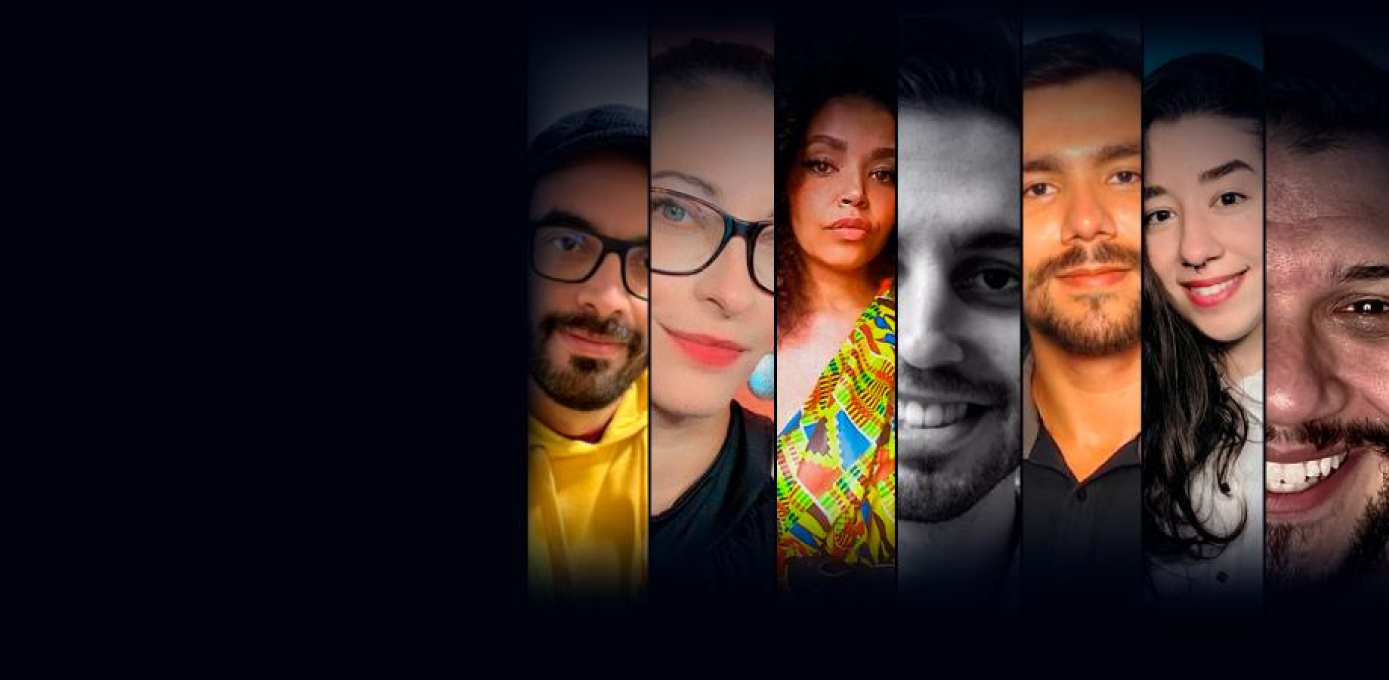
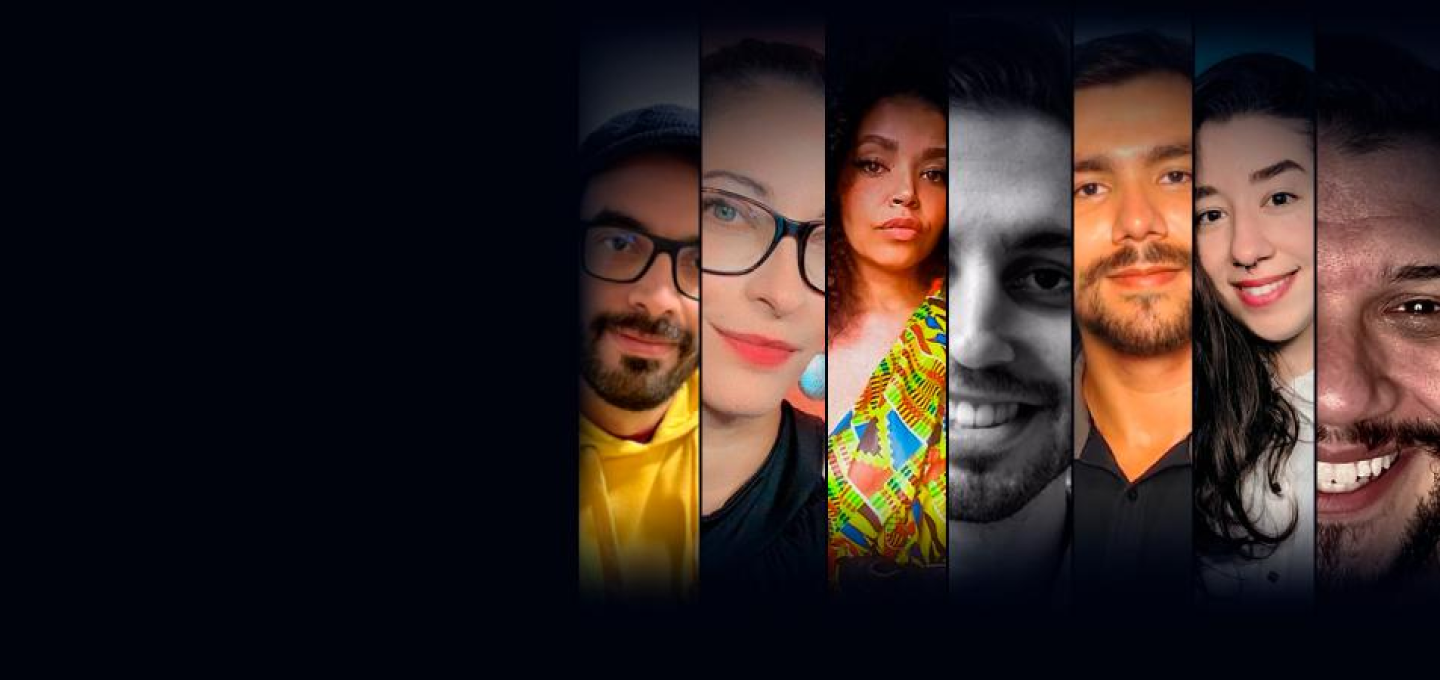
Add files via upload

Changed region(s): [[0.3715, 0.0618, 0.9906, 0.8647], [0.9597, 0.4324, 0.9906, 0.4632], [0.5572, 0.0618, 0.5882, 0.0926]]

diff --git a/index.html b/index.html
@@ -1,16 +1,19 @@
 <!DOCTYPE html>
 <html lang="pt-br">
+
 <head>
     <meta charset="UTF-8">
     <meta name="viewport" content="width=device-width, initial-scale=1.0">
-    <link rel="stylesheeth" href="style.css">
+    <link rel="stylesheet" href="style.css">
     <title>Alura Plus</title>
 </head>
-<body> 
-    <section class="principal">
-        <section class="container principal"></section>
-    <h1>Com o Combo+, você pode aproveitar a Alura+ e o Alura Língua por um preço único.</h1>
-    <img src="./img/Combo.png" alt="O Combo Alura Plus">
+
+<body>
+    <section class="container principal">
+        <h1>Com o Combo+, você pode aproveitar a Alura+ e o Alura Língua por um preço único.</h1>
+        <img src="./img/Combo.png" alt="O combo Alura Plus">
+        <a href="www.alura.com.br" class="container-botao">Assine por 12x de R$120,00*</a>
     </section>
 </body>
+
 </html>

diff --git a/style.css b/style.css
@@ -1,16 +1,16 @@
 :root{
-    --branco-principal: #FFFFFF;
-    --cinza-secundario: #c0c0c0; 
-    --botao-azul: #167bf7; 
-    --cor-de-fundo: #00030c; 
+    --branco-principal:#FFFFFF;
+    --cinza-secundario:#C0C0C0;
+    --botao-roxo:#8b6ab3;
+    --cor-de-fundo:#00030C;
 }
 *{
     margin: 0;
     padding: 0;
 }
 body{
-    background-color:var(--cor-de-fundo)
-    color(--cinza-secundario)
+    background-color:var(--cor-de-fundo);
+    color: var(--branco-principal);
 }
 .principal{
     background-image: url("img/Background.png");
@@ -18,5 +18,13 @@ body{
     background-size: contain;
 }
 .container{
-   height: 100% vh; 
+    height: 100vh;
+    display: grid;
+}
+.container-botao{
+    background-color: var(--botao-roxo);
+    border-radius: 5px;
+    padding: 1em;
+    color: var(--branco-principal);
+    display: block;
 }

diff --git a/README.md b/README.md
@@ -1,1 +1,1 @@
-# AluraPlua2D
+# AluraPlus2D
